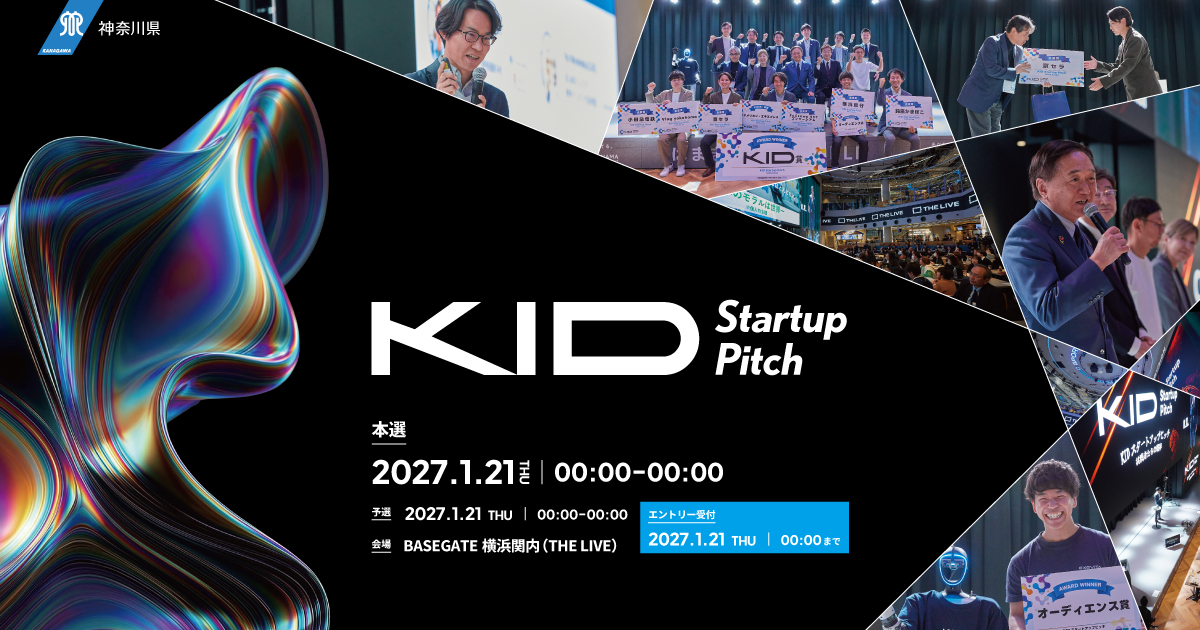
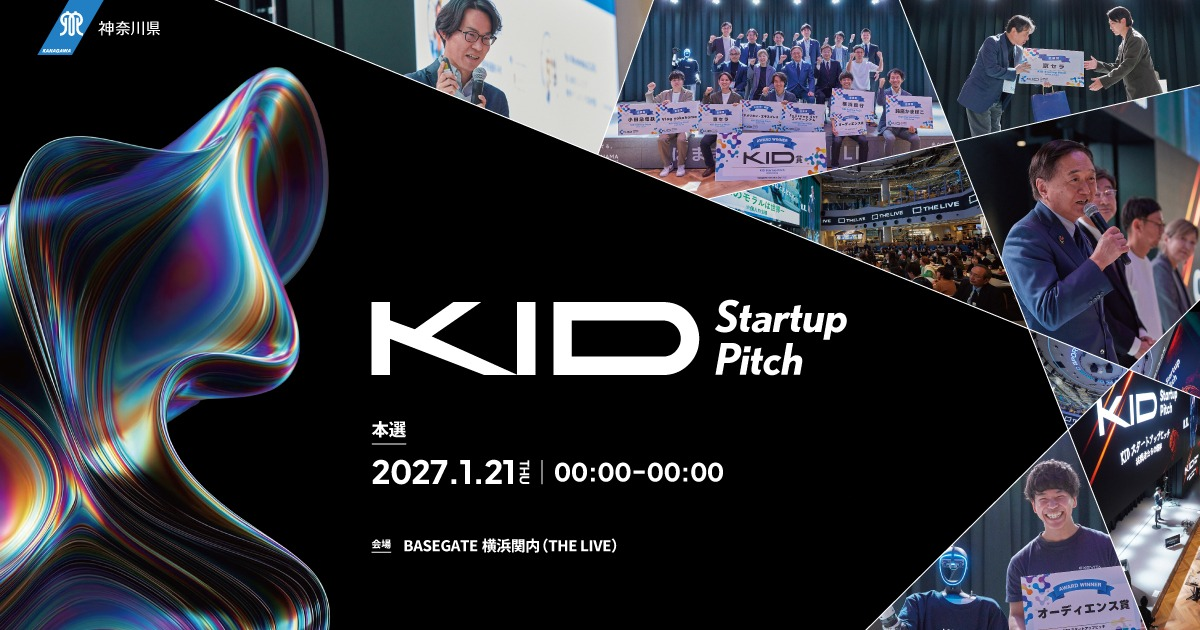
feat: Pitchページ再構成—KV黒塗り／観覧予約／ファイナリスト強化／ギャラリー・OUTLINE追加
- KV画像の予選情報・エントリー受付を黒塗り（本選・会場は維持）
- 「エントリーはこちら」→「観覧予約はこちら」（#outline へ）
- ファイナリストをCONCEPT直後へ移動し、企業ロゴ枠＋30文字程度のピッチタイトルを追加
  （PitchPerson に pitchTitle を追加）
- 「募集テーマ」→「ピッチテーマ」に改称、説明文を追加
- ピッチテーマ下部に かながわグランドデザインへの導線（外部リンク）を設置
- 登壇するメリット／スケジュール／応募要項を削除し、2026フォトギャラリーを挿入
- 最下部に OUTLINE（開催日時・会場・GoogleMAP・観覧予約）を追加

diff --git a/app/pitch/page.tsx b/app/pitch/page.tsx
@@ -12,6 +12,9 @@ export const metadata: Metadata = {
 // サブパス配信対応（raw img src には basePath が自動付与されないため手動付与）
 const BASE_PATH = process.env.NEXT_PUBLIC_BASE_PATH || "";
 
+// 神奈川グランドデザイン（ピッチテーマの背景となる県の総合計画）
+const GRAND_DESIGN_URL = "https://www.pref.kanagawa.jp/docs/r5k/nkg.html";
+
 // モデレーター（仮）
 const MODERATORS: PitchPerson[] = [
   { role: "MC / モデレーター", name: "近藤 さや香", en: "Sayaka Kondo" },
@@ -29,7 +32,7 @@ const AWARD_COMPANIES = [
   "横浜銀行",
 ];
 
-// 募集テーマ（神奈川県の社会課題・13項目／仮）
+// ピッチテーマ（神奈川県の社会課題・13項目／2026 と同一）
 const THEMES = [
   "子ども・若者",
   "教育",
@@ -46,15 +49,10 @@ const THEMES = [
   "都市基盤",
 ];
 
-// スケジュール（仮）
-const SCHEDULE = [
-  { d: "2027.1.21", t: "エントリー締切", b: "応募フォームより受付（00:00まで）" },
-  { d: "2027.1.21", t: "書類選考", b: "エントリー内容をもとに選考" },
-  { d: "2027.1.21", t: "予選", b: "00:00–00:00（登壇者による予選ピッチ）" },
-  { d: "2027.1.21", t: "本選", b: "00:00–00:00 BASEGATE 横浜関内（THE LIVE）" },
-];
+// 去年（2026）のフォトギャラリー（枚数は仮）
+const GALLERY = ["オープニング", "ピッチ登壇", "審査員講評", "会場の様子", "表彰式", "集合写真"];
 
-// セクション見出し（英語アイビー＋日本語サブ）
+// セクション見出し（英語アイブロウ＋日本語）
 function SectionHead({ en, jp }: { en: string; jp: string }) {
   return (
     <div style={{ marginBottom: 20 }}>
@@ -73,6 +71,7 @@ function SectionHead({ en, jp }: { en: string; jp: string }) {
   );
 }
 
+// 審査員・モデレーター用（写真＋所属/肩書/氏名）
 function Person({ p }: { p: PitchPerson }) {
   return (
     <div className="person">
@@ -87,6 +86,33 @@ function Person({ p }: { p: PitchPerson }) {
   );
 }
 
+// ファイナリスト用（企業ロゴ＋登壇者＋ピッチタイトル）
+function Finalist({ p }: { p: PitchPerson }) {
+  return (
+    <div className="card" style={{ padding: 18, display: "flex", flexDirection: "column", gap: 14 }}>
+      <div className="wf-ph" style={{ width: 150, height: 48, alignSelf: "flex-start" }}>
+        企業ロゴ
+      </div>
+      <Person p={p} />
+      {p.pitchTitle && (
+        <div
+          style={{
+            borderTop: "1px dashed var(--bar)",
+            paddingTop: 12,
+            font: "800 13.5px/1.6 var(--font-jp)",
+            color: "var(--text)",
+          }}
+        >
+          <span style={{ font: "700 10px var(--font-mono)", color: "var(--accent)", marginRight: 8 }}>
+            PITCH
+          </span>
+          {p.pitchTitle}
+        </div>
+      )}
+    </div>
+  );
+}
+
 export default function PitchPage() {
   return (
     <>
@@ -96,7 +122,7 @@ export default function PitchPage() {
       <section className="sect--beige">
         <div className="wrap" style={{ paddingTop: 24, paddingBottom: 28 }}>
           <img
-            src={`${BASE_PATH}/assets/pitch-kv.jpg`}
+            src={BASE_PATH + "/assets/pitch-kv.jpg"}
             alt="KID Startup Pitch 2027 キービジュアル"
             style={{
               width: "100%",
@@ -106,21 +132,36 @@ export default function PitchPage() {
             }}
           />
           <div style={{ textAlign: "center", marginTop: 18 }}>
-            <a href="#entry" className="wf-btnf" style={{ padding: "13px 44px", fontSize: 14 }}>
-              エントリーはこちら
+            <a href="#outline" className="wf-btnf" style={{ padding: "13px 44px", fontSize: 14 }}>
+              観覧予約はこちら
             </a>
           </div>
         </div>
       </section>
 
       {/* ===== CONCEPT ===== */}
-      <section className="sect sect--beige">
+      <section className="sect">
         <div className="wrap">
           <SectionHead en="CONCEPT" jp="挑戦する想いに、発信の場を。" />
           <p style={{ font: "400 13.5px/2.05 var(--font-jp)", color: "var(--body)", margin: 0, maxWidth: 900 }}>
             神奈川県が掲げる社会課題の解決をテーマに、革新的なアイデアと熱量を持つ起業家が集い、火花を散らすスタートアップピッチ。
             全国の起業家（起業前も可）を対象に、県内での実証・事業連携・成長支援へとつながる「発信の場」を提供します。
             KID 最大の熱狂コンテンツとして、挑戦者たちの想いを未来へつなぎます。
+          </p>
+        </div>
+      </section>
+
+      {/* ===== FINALIST（コンセプト直後に配置） ===== */}
+      <section id="finalist" className="sect sect--beige">
+        <div className="wrap">
+          <SectionHead en="FINALIST" jp="ファイナリスト" />
+          <div className="g2">
+            {day1Pitch.speakers.map((p) => (
+              <Finalist key={p.name} p={p} />
+            ))}
+          </div>
+          <p style={{ font: "400 11px sans-serif", color: "#9a978f", margin: "12px 0 0" }}>
+            ※企業ロゴ・ピッチタイトルは仮です。
           </p>
         </div>
       </section>
@@ -149,10 +190,20 @@ export default function PitchPage() {
         </div>
       </section>
 
-      {/* ===== THEME ===== */}
+      {/* ===== THEME（ピッチテーマ） ===== */}
       <section id="theme" className="sect sect--beige">
         <div className="wrap">
-          <SectionHead en="THEME" jp="募集テーマ（社会課題 13項目）" />
+          <SectionHead en="THEME" jp="ピッチテーマ（社会課題 13項目）" />
+          <p
+            style={{
+              font: "400 13.5px/2 var(--font-jp)",
+              color: "var(--body)",
+              margin: "0 0 20px",
+              maxWidth: 900,
+            }}
+          >
+            県が取り組む社会課題の解決をテーマに、これからの世界を神奈川から変えていく革新的なビジネスプランを競い合います。
+          </p>
           <div className="g3">
             {THEMES.map((t, i) => (
               <div
@@ -174,6 +225,40 @@ export default function PitchPage() {
               </div>
             ))}
           </div>
+
+          {/* 神奈川グランドデザインへの導線 */}
+          <div
+            className="card"
+            style={{
+              marginTop: 20,
+              padding: "16px 20px",
+              display: "flex",
+              alignItems: "center",
+              justifyContent: "space-between",
+              gap: 16,
+              flexWrap: "wrap",
+              background: "var(--pale-blue)",
+              borderColor: "var(--pale-blue-border)",
+            }}
+          >
+            <div>
+              <div style={{ font: "800 14px var(--font-jp)", marginBottom: 4 }}>
+                テーマの背景：かながわグランドデザイン
+              </div>
+              <div style={{ font: "400 11.5px/1.6 sans-serif", color: "#5a574f" }}>
+                神奈川県が取り組む社会課題と将来像は、県の総合計画「かながわグランドデザイン」に基づいています。
+              </div>
+            </div>
+            <a
+              href={GRAND_DESIGN_URL}
+              target="_blank"
+              rel="noopener noreferrer"
+              className="wf-btn"
+              style={{ flex: "none" }}
+            >
+              かながわグランドデザインを見る ↗
+            </a>
+          </div>
         </div>
       </section>
 
@@ -189,20 +274,8 @@ export default function PitchPage() {
         </div>
       </section>
 
-      {/* ===== SPEAKER ===== */}
-      <section id="speaker" className="sect sect--beige">
-        <div className="wrap">
-          <SectionHead en="SPEAKER" jp="登壇者（ファイナリスト）" />
-          <div className="pitch__people">
-            {day1Pitch.speakers.map((p) => (
-              <Person key={p.name} p={p} />
-            ))}
-          </div>
-        </div>
-      </section>
-
       {/* ===== MODERATOR ===== */}
-      <section id="moderator" className="sect">
+      <section id="moderator" className="sect sect--beige">
         <div className="wrap">
           <SectionHead en="MODERATOR" jp="モデレーター" />
           <div className="pitch__people">
@@ -213,96 +286,53 @@ export default function PitchPage() {
         </div>
       </section>
 
-      {/* ===== MERIT ===== */}
-      <section id="merit" className="sect sect--beige">
+      {/* ===== GALLERY（去年の写真） ===== */}
+      <section id="gallery" className="sect">
         <div className="wrap">
-          <SectionHead en="MERIT" jp="登壇するメリット" />
+          <SectionHead en="GALLERY" jp="KID Startup Pitch 2026 フォトギャラリー" />
           <div className="g3">
-            {[
-              { t: "発信・露出", b: "県内最大級のイノベーションイベントで、来場者・投資家・大企業へ直接プレゼンできる。" },
-              { t: "成長支援", b: "受賞者には県のベンチャー支援拠点による伴走支援・事業連携の機会を提供。" },
-              { t: "ネットワーク", b: "審査員・協賛企業・登壇者との交流を通じて、共創・資金調達の接点が生まれる。" },
-            ].map((m) => (
-              <div key={m.t} className="card" style={{ padding: 16 }}>
-                <div style={{ font: "900 15px var(--font-jp)", marginBottom: 8 }}>{m.t}</div>
-                <p style={{ font: "400 11.5px/1.7 sans-serif", color: "#5a574f", margin: 0 }}>{m.b}</p>
+            {GALLERY.map((cap) => (
+              <div key={cap} className="wf-ph" style={{ aspectRatio: "4 / 3", borderRadius: 8 }}>
+                写真：{cap}
               </div>
             ))}
           </div>
-
-          {/* 受賞特典・本選出場特典（2026 反映） */}
-          <div className="g2" style={{ marginTop: 16 }}>
-            <div className="card" style={{ padding: 16 }}>
-              <div style={{ font: "800 13px var(--font-jp)", color: "var(--accent)", marginBottom: 10 }}>
-                受賞特典
-              </div>
-              <ul style={{ margin: 0, paddingLeft: 18, font: "400 12px/1.9 sans-serif", color: "#5a574f" }}>
-                <li>ベンチャー成長促進拠点「SHINみなとみらい」利用権 等</li>
-                <li>神奈川県内の大企業による企業賞</li>
-              </ul>
-            </div>
-            <div className="card" style={{ padding: 16 }}>
-              <div style={{ font: "800 13px var(--font-jp)", color: "var(--accent)", marginBottom: 10 }}>
-                本選出場特典
-              </div>
-              <ul style={{ margin: 0, paddingLeft: 18, font: "400 12px/1.9 sans-serif", color: "#5a574f" }}>
-                <li>本選イベントでのブース出展</li>
-                <li>大企業・自治体・投資家等とのマッチング機会</li>
-                <li>VIPネットワーキング参加権</li>
-                <li>プレスリリース・サイト・SNS・オンラインメディア等による広報機会</li>
-              </ul>
-            </div>
-          </div>
+          <p style={{ font: "400 11px sans-serif", color: "#9a978f", margin: "12px 0 0" }}>
+            ※昨年（KID 2026）の写真を掲載予定。枚数・並びは仮です。
+          </p>
         </div>
       </section>
 
-      {/* ===== SCHEDULE ===== */}
-      <section id="schedule" className="sect">
+      {/* ===== OUTLINE（最下部：開催概要・会場・MAP・観覧予約） ===== */}
+      <section id="outline" className="sect sect--beige section-anchor">
         <div className="wrap">
-          <SectionHead en="SCHEDULE" jp="スケジュール" />
-          <div style={{ display: "flex", flexDirection: "column", gap: 12 }}>
-            {SCHEDULE.map((s) => (
-              <div
-                key={s.t}
-                className="card"
-                style={{ padding: "14px 18px", display: "flex", gap: 18, alignItems: "baseline", flexWrap: "wrap" }}
-              >
-                <div style={{ font: "800 13px var(--font-mono)", color: "var(--accent)", width: 90, flex: "none" }}>
-                  {s.d}
+          <SectionHead en="OUTLINE" jp="開催概要" />
+          <div className="cols" style={{ gap: 24 }}>
+            <div style={{ flex: 1, display: "flex", flexDirection: "column", gap: 14 }}>
+              {[
+                { k: "開催日時", v: "2027.1.21（木） 00:00–00:00（本選）" },
+                { k: "会 場", v: "BASEGATE 横浜関内（THE LIVE）" },
+                { k: "参加費", v: "無料（要観覧予約）" },
+              ].map((r) => (
+                <div
+                  key={r.k}
+                  style={{ display: "flex", gap: 16, borderBottom: "1px dashed var(--bar)", paddingBottom: 12 }}
+                >
+                  <div style={{ width: 88, font: "700 13px sans-serif", color: "var(--accent)", flex: "none" }}>
+                    {r.k}
+                  </div>
+                  <div style={{ font: "400 12.5px/1.7 sans-serif", color: "var(--body)" }}>{r.v}</div>
                 </div>
-                <div style={{ font: "800 13px var(--font-jp)", width: 120, flex: "none" }}>{s.t}</div>
-                <div style={{ font: "400 12px/1.6 sans-serif", color: "var(--body-2)", flex: 1, minWidth: 200 }}>
-                  {s.b}
-                </div>
+              ))}
+            </div>
+            <div style={{ flex: 1 }}>
+              <div className="wf-ph" style={{ width: "100%", height: 220, borderRadius: 8 }}>
+                GOOGLE MAP
               </div>
-            ))}
-          </div>
-          <p style={{ font: "400 11px sans-serif", color: "#9a978f", margin: "12px 0 0" }}>※日程は仮です。</p>
-        </div>
-      </section>
-
-      {/* ===== ENTRY ===== */}
-      <section id="entry" className="sect sect--beige">
-        <div className="wrap">
-          <SectionHead en="ENTRY" jp="応募要項" />
-          <div style={{ display: "flex", flexDirection: "column", gap: 12, maxWidth: 860 }}>
-            {[
-              { k: "応募対象", v: "神奈川県の社会課題解決に資するビジネスプランを持つ、全国の起業家（起業前も可）" },
-              { k: "対象外", v: "大企業（社内新規事業等）は対象外" },
-              { k: "参加費", v: "無料" },
-              { k: "締切", v: "2027.1.21（木） 00:00 まで" },
-              { k: "注意事項", v: "応募規約に違反した場合等、運営事務局が不適切と判断した場合は参加資格を取り消すことがあります。" },
-            ].map((r) => (
-              <div key={r.k} style={{ display: "flex", gap: 16, borderBottom: "1px dashed var(--bar)", paddingBottom: 12 }}>
-                <div style={{ width: 88, font: "700 13px sans-serif", color: "var(--accent)", flex: "none" }}>
-                  {r.k}
-                </div>
-                <div style={{ font: "400 12.5px/1.7 sans-serif", color: "var(--body)" }}>{r.v}</div>
-              </div>
-            ))}
+            </div>
           </div>
 
-          {/* エントリーは外部フォーム（別サイト）へ遷移。URL は別途差し替え */}
+          {/* 観覧予約は外部フォーム（別サイト）へ遷移。URL は別途差し替え */}
           <div style={{ textAlign: "center", marginTop: 26 }}>
             <a
               href="#"
@@ -311,9 +341,12 @@ export default function PitchPage() {
               className="wf-btnf"
               style={{ padding: "14px 52px", fontSize: 14 }}
             >
-              エントリーフォームへ ↗
+              観覧予約はこちら ↗
             </a>
           </div>
+          <p style={{ font: "400 11px sans-serif", color: "#9a978f", margin: "12px 0 0", textAlign: "center" }}>
+            ※日時・会場は仮です。
+          </p>
         </div>
       </section>
 

diff --git a/lib/sessions.ts b/lib/sessions.ts
@@ -34,6 +34,7 @@ export type PitchPerson = {
   role?: string; // 肩書
   name: string; // 氏名
   en: string; // ローマ字
+  pitchTitle?: string; // ピッチタイトル（30文字程度・ファイナリスト用）
 };
 
 export type Day1Pitch = {
@@ -54,11 +55,11 @@ export const day1Pitch: Day1Pitch = {
     "神奈川県が掲げる社会課題の解決をテーマに、選ばれた挑戦者たちが火花を散らす KID 最大の熱狂コンテンツ。DAY1 は MAIN STAGE でのファイナルピッチのみを実施します。",
   href: "/pitch", // ※ KID Startup Pitch ページは今後作成
   speakers: [
-    { org: "株式会社虫秘茶", role: "取締役", name: "芝 竜太郎", en: "Ryutaro Shiba" },
-    { org: "株式会社NIJIN", role: "NIJINアカデミー企業連携担当", name: "菊地 世恋", en: "Seren Kikuchi" },
-    { org: "株式会社クロスメディスン", role: "代表取締役", name: "中井 洸我", en: "Koga Nakai" },
-    { org: "エグゼヴィータ株式会社", role: "代表取締役", name: "多田 洋史", en: "Hiroshi Tada" },
-    { org: "株式会社カマン", role: "代表取締役", name: "善積 真吾", en: "Shingo Yoshizumi" },
+    { org: "株式会社虫秘茶", role: "取締役", name: "芝 竜太郎", en: "Ryutaro Shiba", pitchTitle: "昆虫由来の発酵茶で、廃棄食材を地域の新たな資源に変える" },
+    { org: "株式会社NIJIN", role: "NIJINアカデミー企業連携担当", name: "菊地 世恋", en: "Seren Kikuchi", pitchTitle: "オンライン教育で、不登校の子どもに学びの選択肢を届ける" },
+    { org: "株式会社クロスメディスン", role: "代表取締役", name: "中井 洸我", en: "Koga Nakai", pitchTitle: "医療データ連携で、地域の診療をつなぐ次世代プラットフォーム" },
+    { org: "エグゼヴィータ株式会社", role: "代表取締役", name: "多田 洋史", en: "Hiroshi Tada", pitchTitle: "AI×介護記録で、現場の負担を減らし高齢社会を支える" },
+    { org: "株式会社カマン", role: "代表取締役", name: "善積 真吾", en: "Shingo Yoshizumi", pitchTitle: "リユース容器で、まちから使い捨てをなくす循環型サービス" },
   ],
   judges: [
     { role: "神奈川県知事", name: "黒岩 祐治", en: "Yuji Kuroiwa" },
